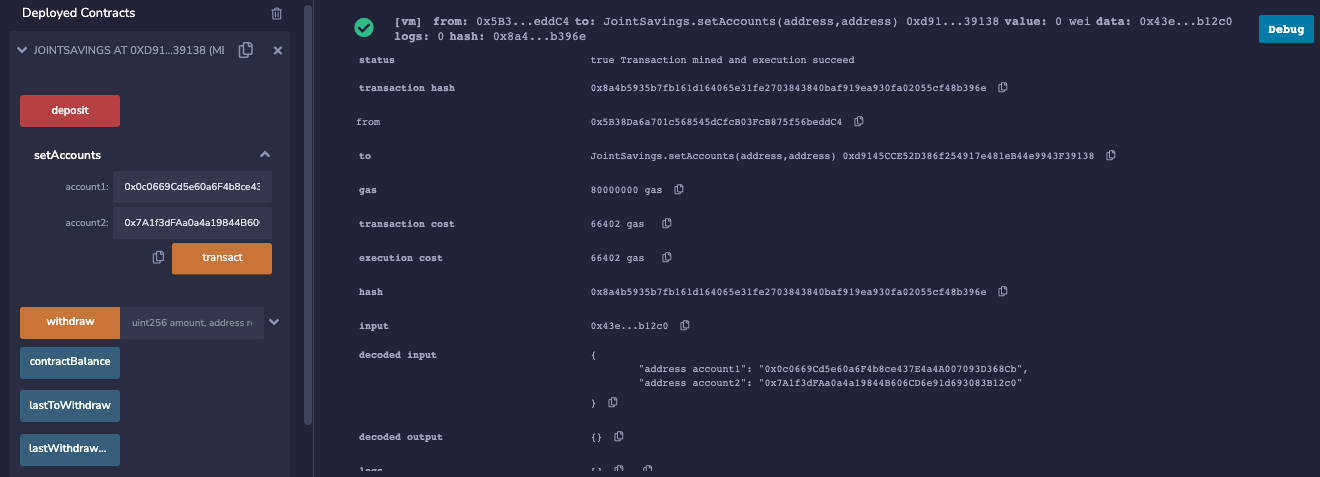
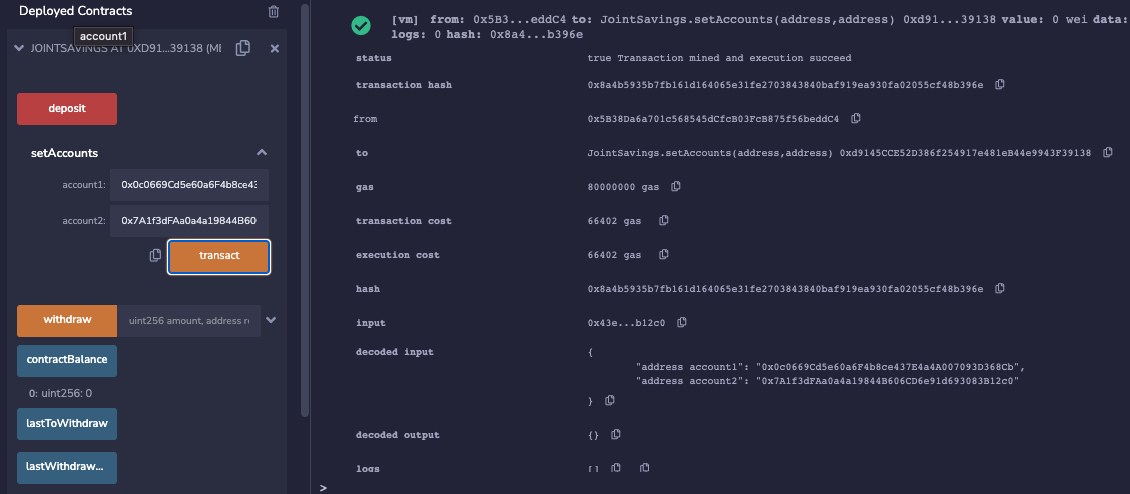
finished readme i think

diff --git a/README.md b/README.md
@@ -25,6 +25,8 @@ _______________________________
 ## Deposit
 Use the `deposit` functionality of the smart contract by sending funds to the smart contract.
 
+<br>
+
 > **EXAMPLE:** Below we are sending 1 ether as wei: <br> <br>
 > ![alt](Execution_Results/2_Deposit.png)
 
@@ -41,13 +43,19 @@ _______________________________
 ## Contract Balance
  Use the `contractBalance` function to verify the balance of the:
 
+<br>
 
-> **EXAMPLE:** Below we sent 10 ether as wei: <br> <br>
+> **EXAMPLE:** Here is our balance after receiving 1 ether as wei: <br> <br>
+![alt=“”](Execution_Results/3_Balance.png)
+
+<br>
+
+> **EXAMPLE:** Here is our balance after receiving 10 ether as wei: <br> <br>
 ![alt=“”](Execution_Results/4_Balance.png)
 
 <br>
 
-> **EXAMPLE:** Below we sent 5 ether:  <br> <br>
+> **EXAMPLE:** Here is our balance after receiving 5 ether:  <br><br>
 ![alt=“”](Execution_Results/5_Balance.png)
 
 
@@ -66,23 +74,24 @@ Use the `withdraw` function withdraw funds from the smart contract and deposit i
 <br>
 
  > **EXAMPLE:** Withdrawing 5 ether into `accountOne`:  
- <br>
-![alt=“”](Execution_Results/5_Balance.png)
+ <br><br>
+![alt=“”](Execution_Results/6_Withdraw.png)
 <br> <br>
 Now let's use the `contractBalance` function check the smart contrat balance to see the funds were withdrawn:
-<br>
-![alt=“”](Execution_Results/5_Balance.png)
+<br> <br>
+![alt=“”](Execution_Results/7_Balance.png)
 
 
 <br><br>
 
 
  > **EXAMPLE:** Withdrawing 10 ether into `accountTwo`:
- <br>
-![alt=“”](Execution_Results/5_Balance.png)
+ <br><br>
+![alt=“”](Execution_Results/8_Withdraw.png)
 <br> <br>
 Now let's use the `contractBalance` function check the smart contrat balance to see the funds were withdrawn:
-![alt=“”](Execution_Results/5_Balance.png)
+<br> <br>
+![alt=“”](Execution_Results/9_Balance.png)
 
 
 <br>
@@ -97,8 +106,8 @@ Use the `lastToWithdraw` function to see the address of the last wallet to withd
 <br>
 
  > **EXAMPLE:** Withdrawing 10 ether into `accountTwo`:
- <br>
-![alt=“”](Execution_Results/5_Balance.png)
+ <br><br>
+![alt=“”](Execution_Results/10_LastToWithdraw.png)
 
 <br>
 
@@ -107,10 +116,12 @@ _______________________________
 <br>
 
 ## Last Amount Withdrawn
-Use the `lastToWithdraw` function to see the address of the last wallet to withdraw.
+Use the `lastWithdrawAmount` function to see the amount of the last withdraw.
+
+<br>
 
  > **EXAMPLE:** Withdrawing 10 ether into `accountTwo`:
- <br>
-![alt=“”](Execution_Results/5_Balance.png)
+ <br><br>
+![alt=“”](Execution_Results/11_LastWithdrawAmount.png)
 <br> <br>
 
